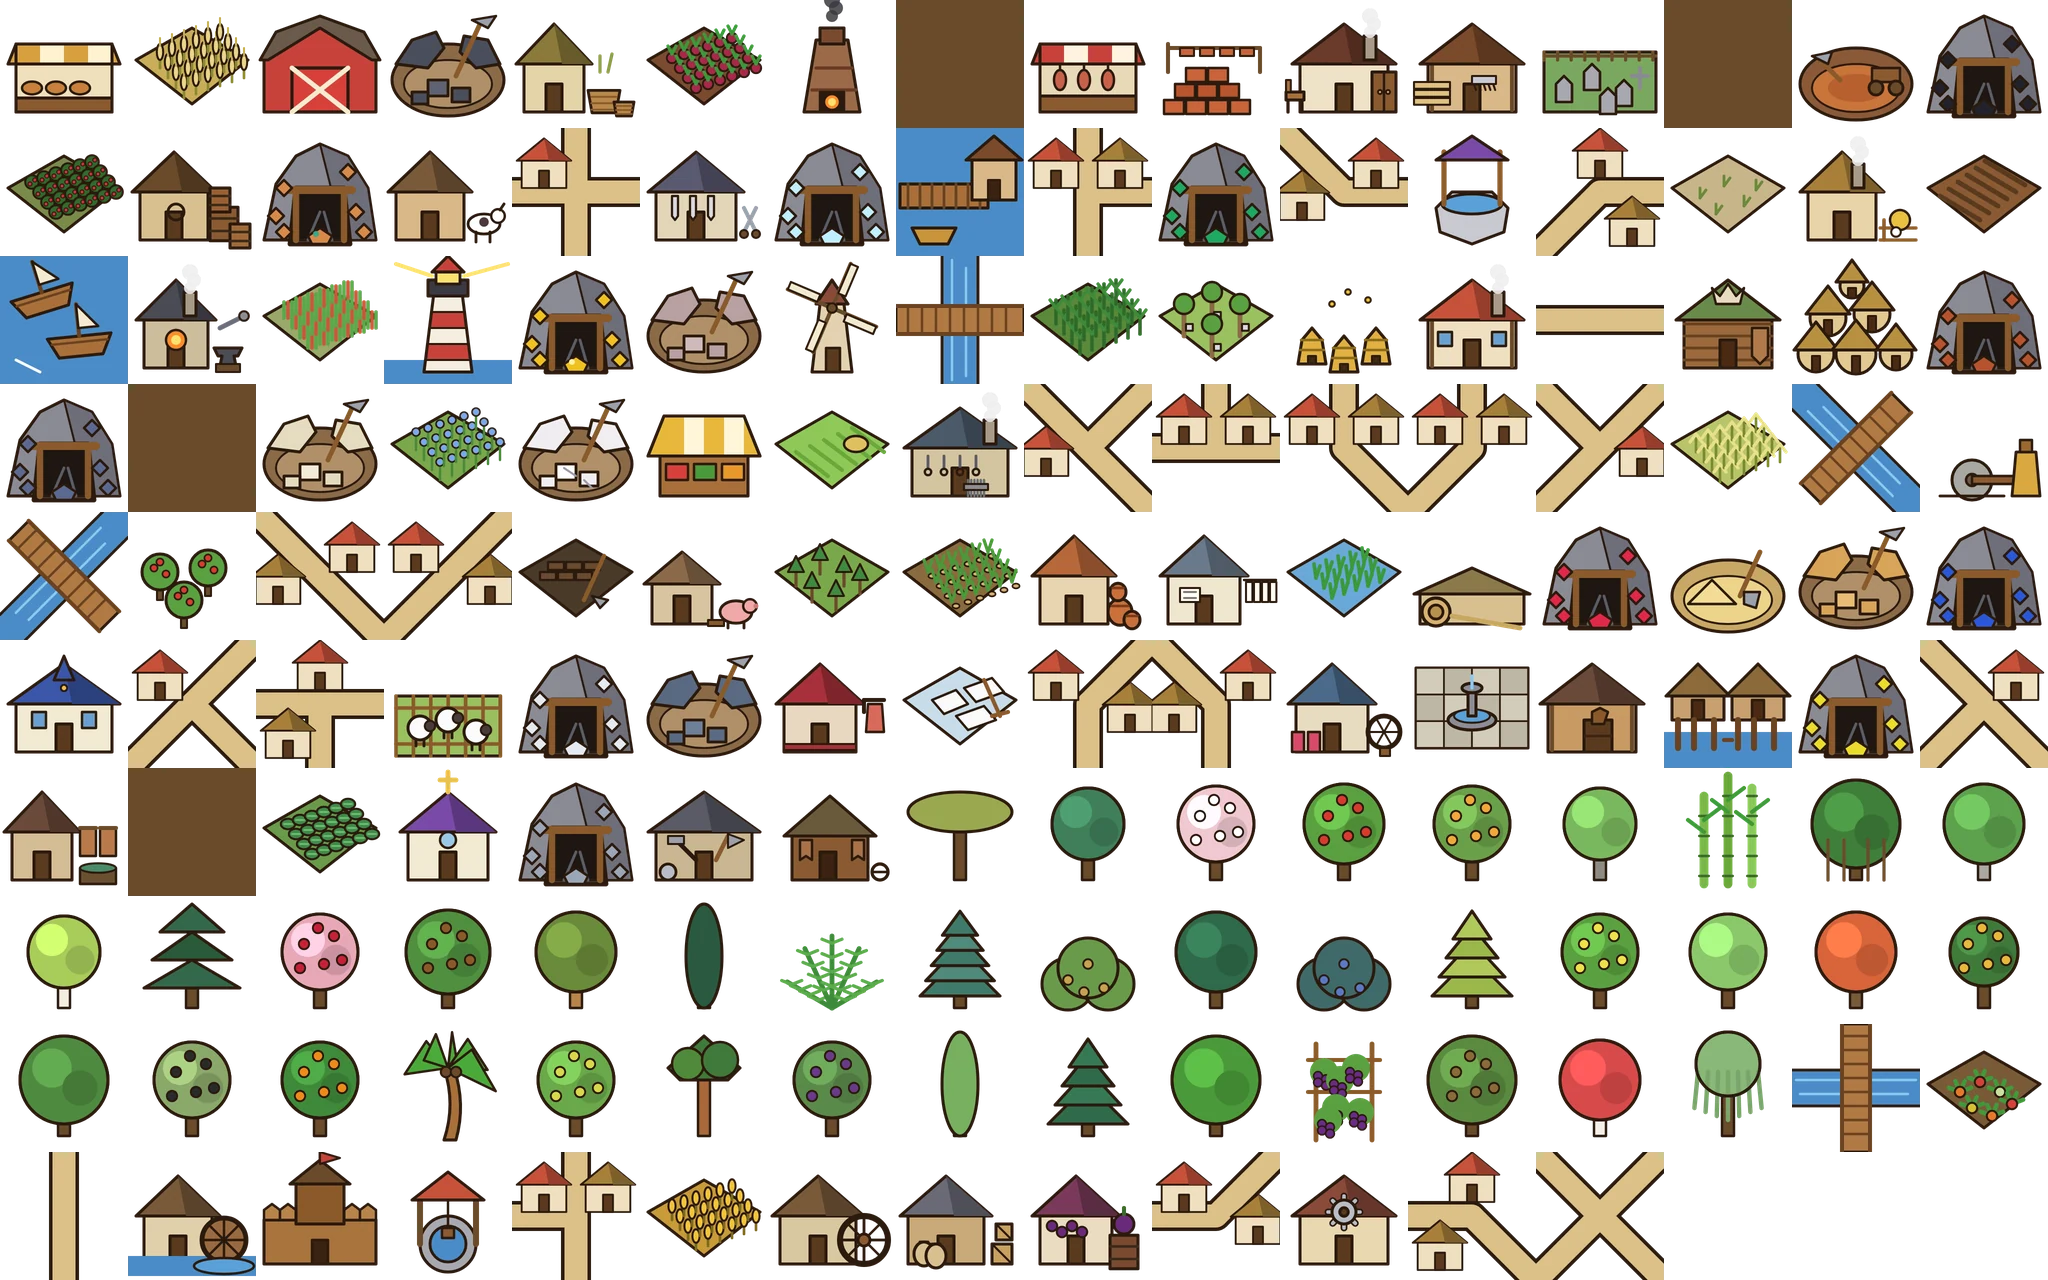
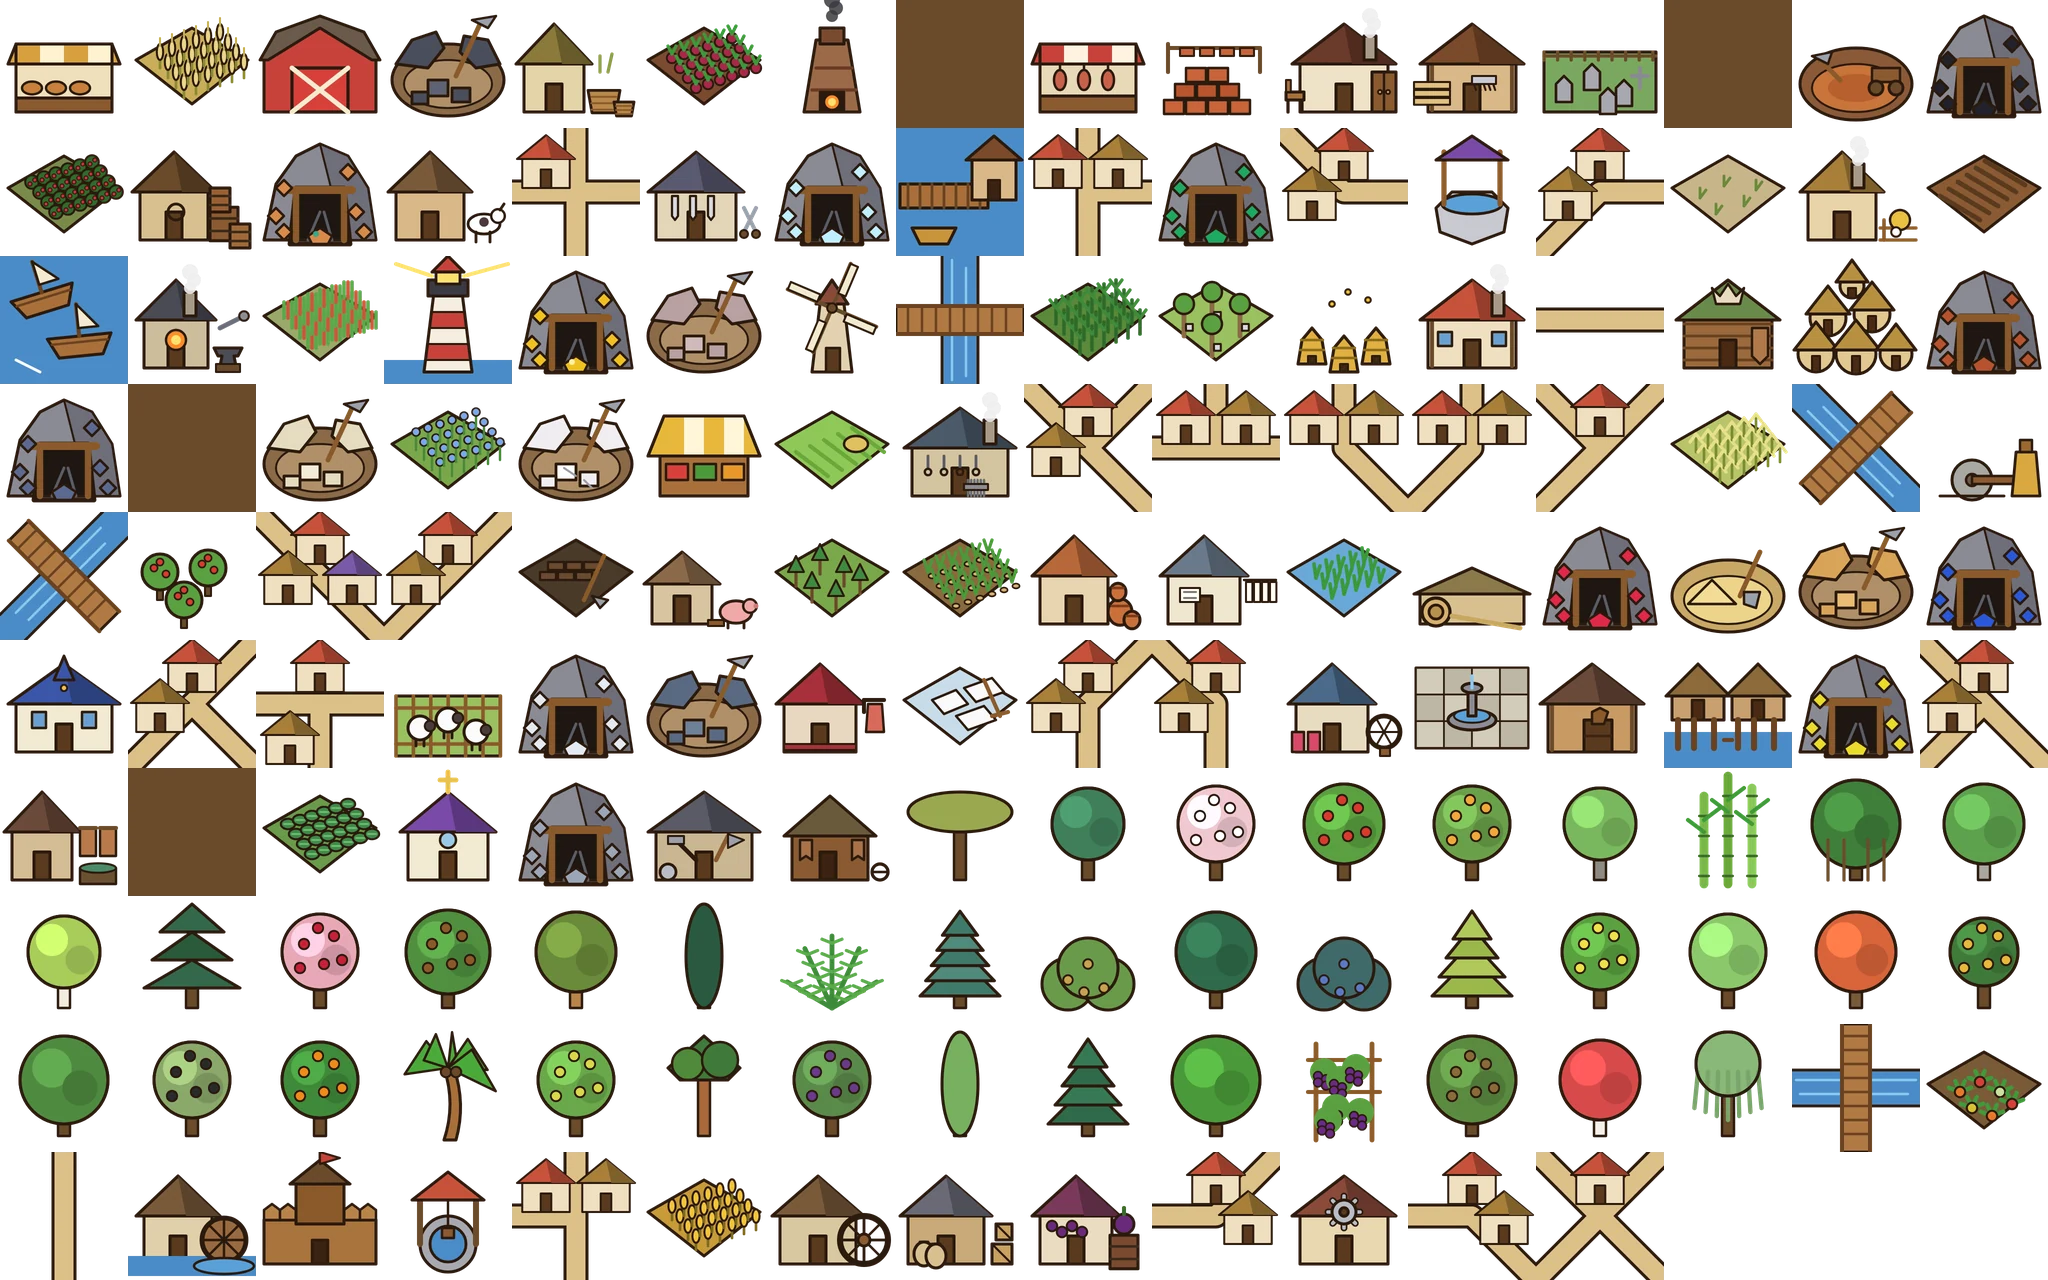
Значки: дома на дорожных плитках почти как обычные; версия атласа против кэша

diff --git a/index.html b/index.html
@@ -1517,7 +1517,7 @@ const ICON_IMG = {};
 const USE_TYPE_ICONS = true;
 const TYPE_IDS = ["bakery", "barley", "barn", "basalt", "basketry", "beet", "bfurnace", "bkhouse", "butcher", "byard", "cabinet", "carpent", "cemetery", "charcoal", "clay", "coal", "coffee", "cooper", "copper", "cowshed", "crossing", "cutlery", "diamond", "dock", "efork", "emerald", "enwstrt", "esfont", "eswstrt", "fallow", "farm", "field", "fishboat", "forge", "glasswrt", "glthouse", "gold", "granite", "grnmill", "hbridge", "hemp", "hevea", "hive", "house", "hstreet", "hunting", "hut", "iron", "lead", "limekiln", "limeston", "linen", "marble", "market", "meadow", "nailfac", "nefork", "nfork", "nsestrt", "nswstrt", "nwfork", "oat", "obridge", "oilmill", "orbridge", "orchard", "orstreet", "ostreet", "peat", "pigsty", "plant", "potato", "pottery", "pprmill", "rice", "ropefac", "ruby", "sand", "sandston", "saphir", "school", "sefork", "sfork", "sheepfld", "silver", "slate", "slaught", "smarsh", "snestrt", "snwstrt", "spinfac", "square", "stable", "sthouse", "sulfur", "swfork", "tannery", "tarkiln", "tea", "temple", "tin", "toolfac", "traphut", "tree_acacia", "tree_alder", "tree_almond", "tree_apple", "tree_apricot", "tree_ash", "tree_bamboo", "tree_banyan", "tree_beech", "tree_birch", "tree_cedar", "tree_cherry", "tree_chestnut", "tree_corkoak", "tree_cypress", "tree_fern", "tree_fir", "tree_hazel", "tree_holmoak", "tree_juniper", "tree_larch", "tree_lemon", "tree_lime", "tree_maple", "tree_nutmeg", "tree_oak", "tree_olive", "tree_orange", "tree_palm", "tree_pear", "tree_pine", "tree_plum", "tree_poplar", "tree_spruce", "tree_teak", "tree_vine", "tree_walnut", "tree_weirwood", "tree_willow", "vbridge", "vgarden", "vstreet", "watmill", "wcastle", "well", "wfork", "wheat", "wheelwr", "whouse", "winery", "wnestrt", "workshop", "wsestrt", "xcross"];
 const TYPE_IDX = {}; TYPE_IDS.forEach((k, i) => TYPE_IDX[k] = i);
-const typeAtlas = new Image(); typeAtlas.onload = () => { render(); if (window.drawLegendIcons) drawLegendIcons(); }; typeAtlas.src = "assets/map-icons/types.webp";
+const typeAtlas = new Image(); typeAtlas.onload = () => { render(); if (window.drawLegendIcons) drawLegendIcons(); }; typeAtlas.src = "assets/map-icons/types.webp?v=fc738671";
 function drawTypeIcon(c, id, x, y, s) {
   const i = TYPE_IDX[id]; if (i === undefined || !typeAtlas.complete || !typeAtlas.naturalWidth) return false;
   c.drawImage(typeAtlas, (i % 16) * 128, ((i / 16) | 0) * 128, 128, 128, x, y, s, s); return true;
